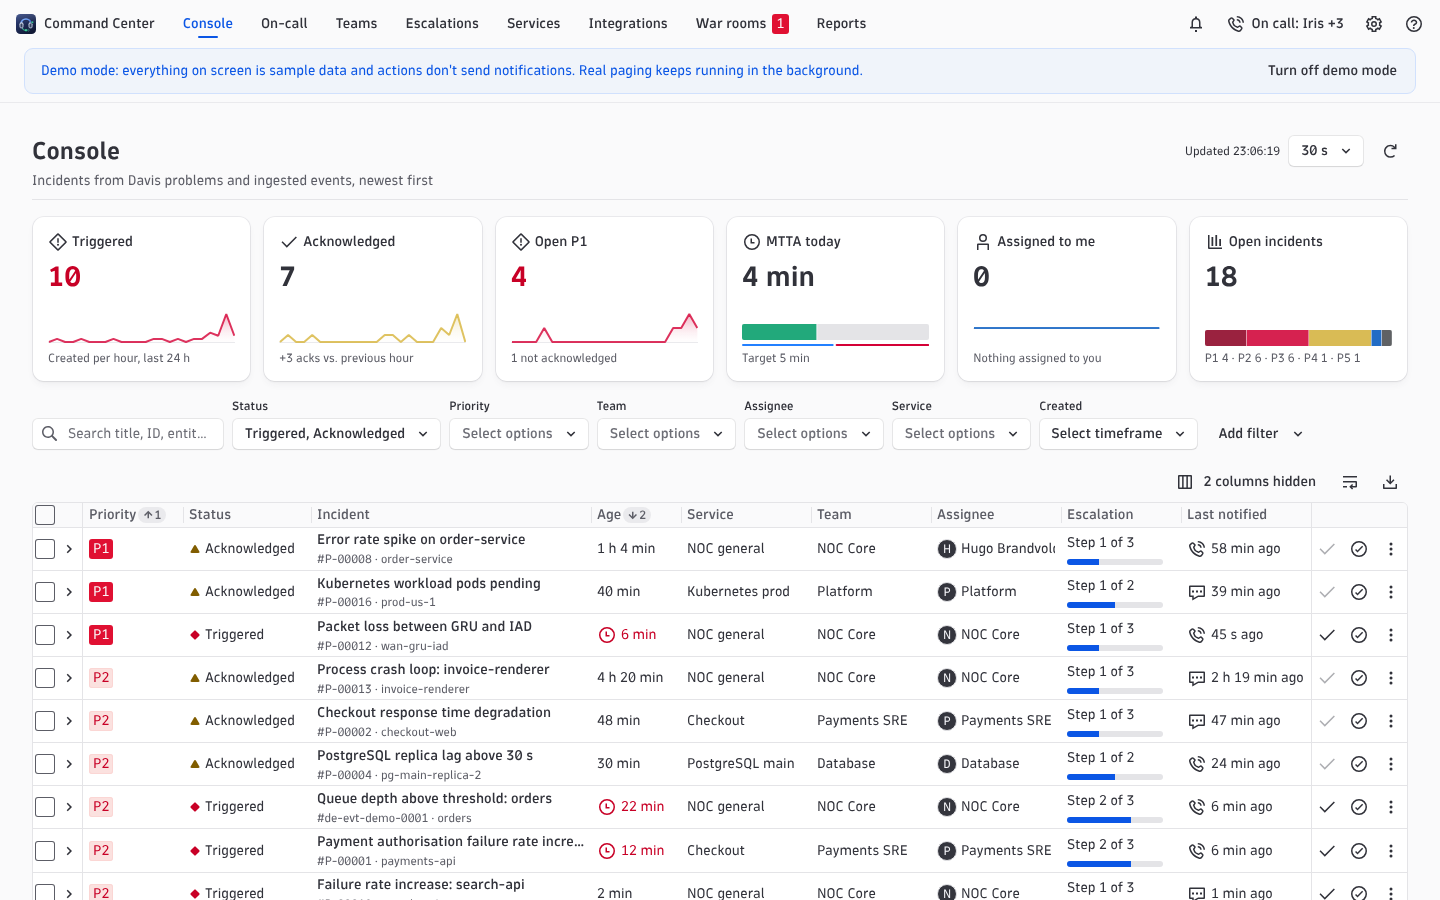
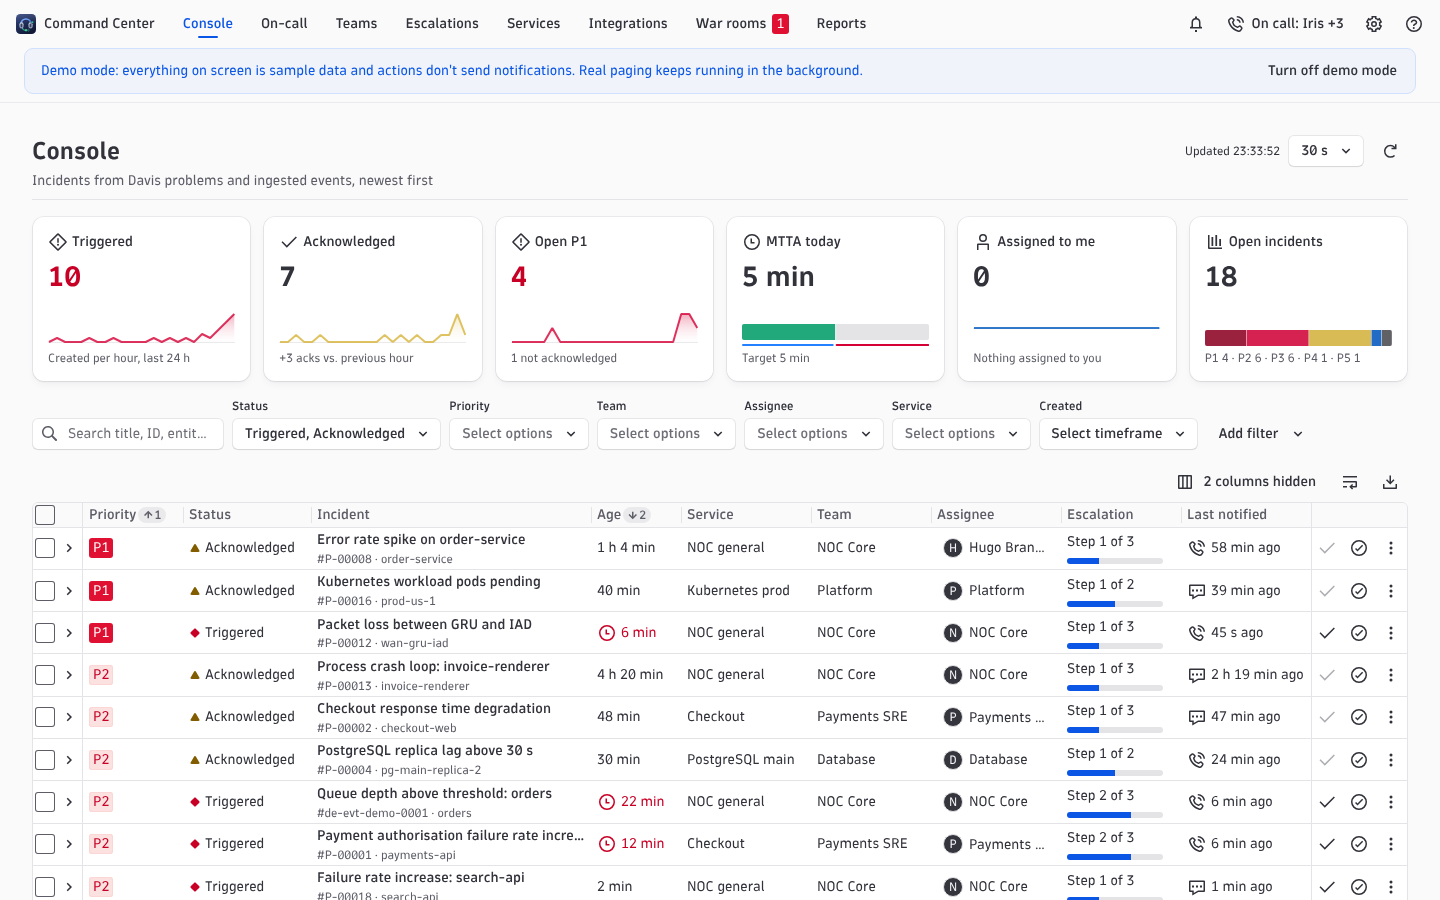
fix(ui): aligned on-call cells, ellipsis for long assignee names; refresh screenshots

diff --git a/ui/app/pages/console/IncidentTable.tsx b/ui/app/pages/console/IncidentTable.tsx
@@ -25,6 +25,7 @@ import Colors from "@dynatrace/strato-design-tokens/colors";
 import type { EscalationPolicy, Incident, NotificationRecord } from "../../domain/contracts";
 import { useAppData } from "../../hooks/AppDataContext";
 import { Cell } from "../../components/tableKit";
+import { Avatar } from "@dynatrace/strato-components/content";
 import { WarRoomModal } from "../warrooms/WarRoomModal";
 import { isSafeHttpsUrl, openRoomsForIncident } from "../../domain/warrooms";
 import { PriorityChip } from "../../components/PriorityChip";
@@ -34,7 +35,7 @@ import { AssigneeView } from "../../components/UserAvatar";
 import { EscalationCell, EscalationSteps } from "../../components/EscalationProgress";
 import { ChannelIcon, CHANNEL_LABEL } from "../../components/ChannelIcon";
 import { IconButton } from "../../components/IconButton";
-import { formatRelative, formatTime } from "../../components/format";
+import { formatRelative, formatTime, initials } from "../../components/format";
 import { PRIORITY_RANK, SOURCE_LABEL } from "./filters";
 import { SNOOZE_PRESETS, useIncidentCommands } from "./useIncidentCommands";
 import type { ModalRequest } from "./ActionModals";
@@ -454,7 +455,23 @@ export const IncidentTable = ({
         header: "Assignee",
         accessor: "assigneeName",
         width: 130,
-        cell: ({ rowData }) => <AssigneeView assignee={rowData.assignee} />,
+        cell: ({ rowData }) =>
+          rowData.assignee ? (
+            <Cell>
+              <Tooltip text={rowData.assigneeName}>
+                <Flex alignItems="center" gap={6} style={{ minWidth: 0, width: "100%" }}>
+                  <Avatar size="small" abbreviation={initials(rowData.assigneeName)} />
+                  <Text style={{ minWidth: 0, flex: "1 1 auto" }}>
+                    <TextEllipsis>{rowData.assigneeName}</TextEllipsis>
+                  </Text>
+                </Flex>
+              </Tooltip>
+            </Cell>
+          ) : (
+            <Cell>
+              <AssigneeView assignee={undefined} />
+            </Cell>
+          ),
       },
       {
         id: "escalation",

diff --git a/ui/app/pages/oncall/OnCallPage.tsx b/ui/app/pages/oncall/OnCallPage.tsx
@@ -258,7 +258,7 @@ const SchedulesTab = () => {
       accessor: (r) => r.nextHandoff ?? 0,
       sortType: "number",
       width: 130,
-      cell: ({ rowData }) => <Text>{rowData.nextHandoff ? formatRelative(rowData.nextHandoff, now) : "–"}</Text>,
+      cell: ({ rowData }) => <CellText>{rowData.nextHandoff ? formatRelative(rowData.nextHandoff, now) : "–"}</CellText>,
     },
     {
       id: "coverage",
@@ -368,8 +368,8 @@ const OverridesTab = ({ onNew }: { onNew: () => void }) => {
     },
     { id: "for", header: "For", accessor: (r) => (r.coversFor ? userName(r.coversFor) : "Gap"), width: 170 },
     { id: "schedule", header: "Schedule", accessor: "scheduleName", width: 180 },
-    { id: "from", header: "From", accessor: "from", width: 210, sortType: "number", cell: ({ rowData }) => <Text>{formatDateTime(rowData.from, rowData.timeZone)}</Text> },
-    { id: "to", header: "To", accessor: "to", width: 210, sortType: "number", cell: ({ rowData }) => <Text>{formatDateTime(rowData.to, rowData.timeZone)}</Text> },
+    { id: "from", header: "From", accessor: "from", width: 210, sortType: "number", cell: ({ rowData }) => <CellText>{formatDateTime(rowData.from, rowData.timeZone)}</CellText> },
+    { id: "to", header: "To", accessor: "to", width: 210, sortType: "number", cell: ({ rowData }) => <CellText>{formatDateTime(rowData.to, rowData.timeZone)}</CellText> },
     { id: "note", header: "Reason", accessor: (r) => r.note ?? "", width: "1fr", cell: ({ rowData }) => (rowData.note ? <CellText>{rowData.note}</CellText> : <CellEmpty />) },
   ];
   const remove = (r: OverrideRow) => {
